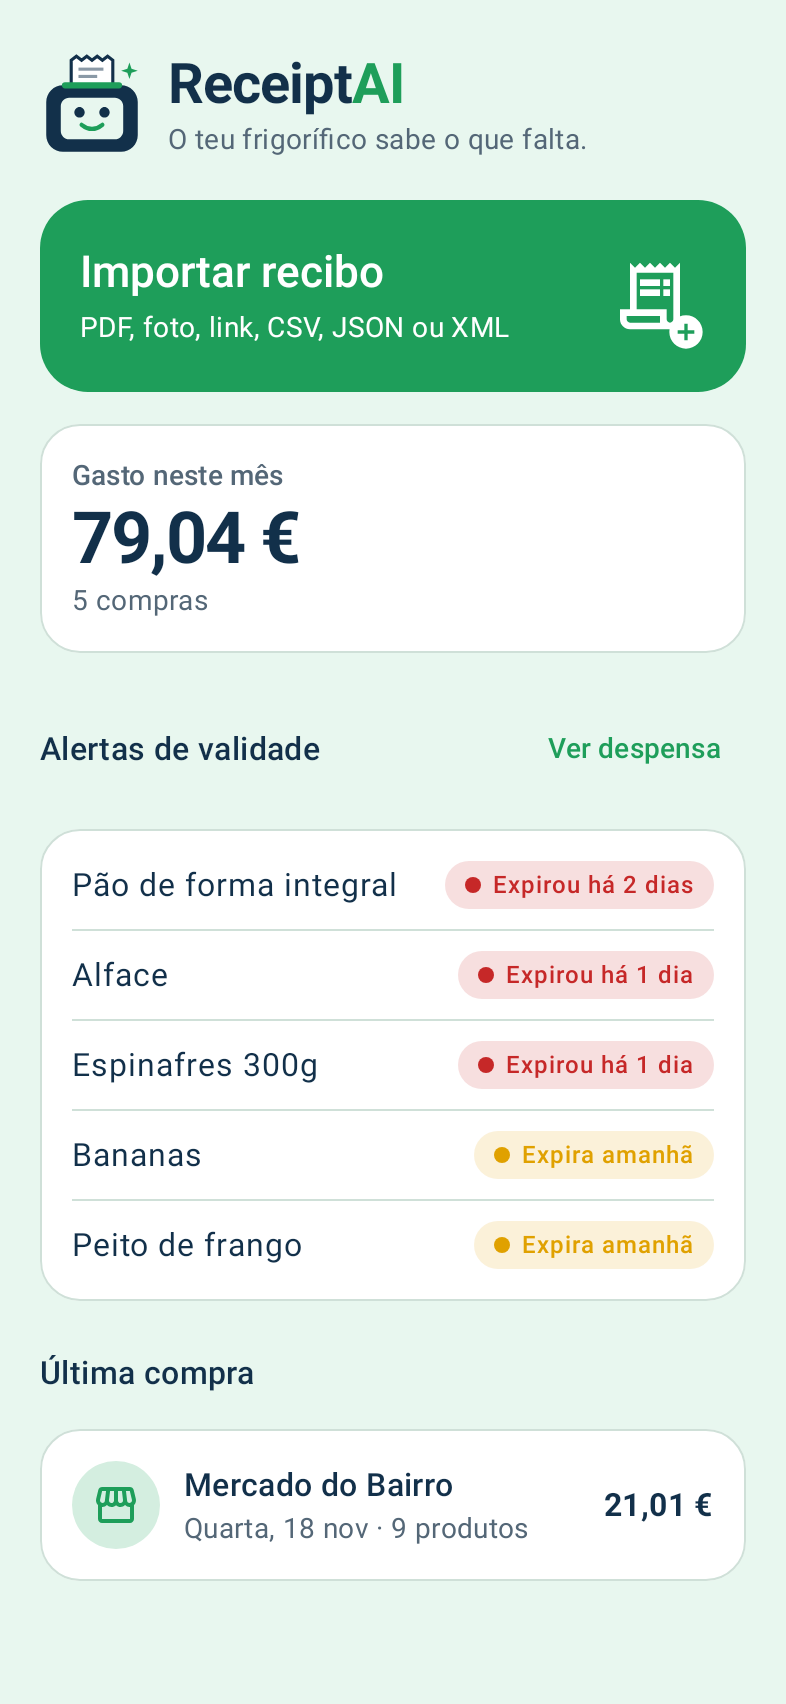
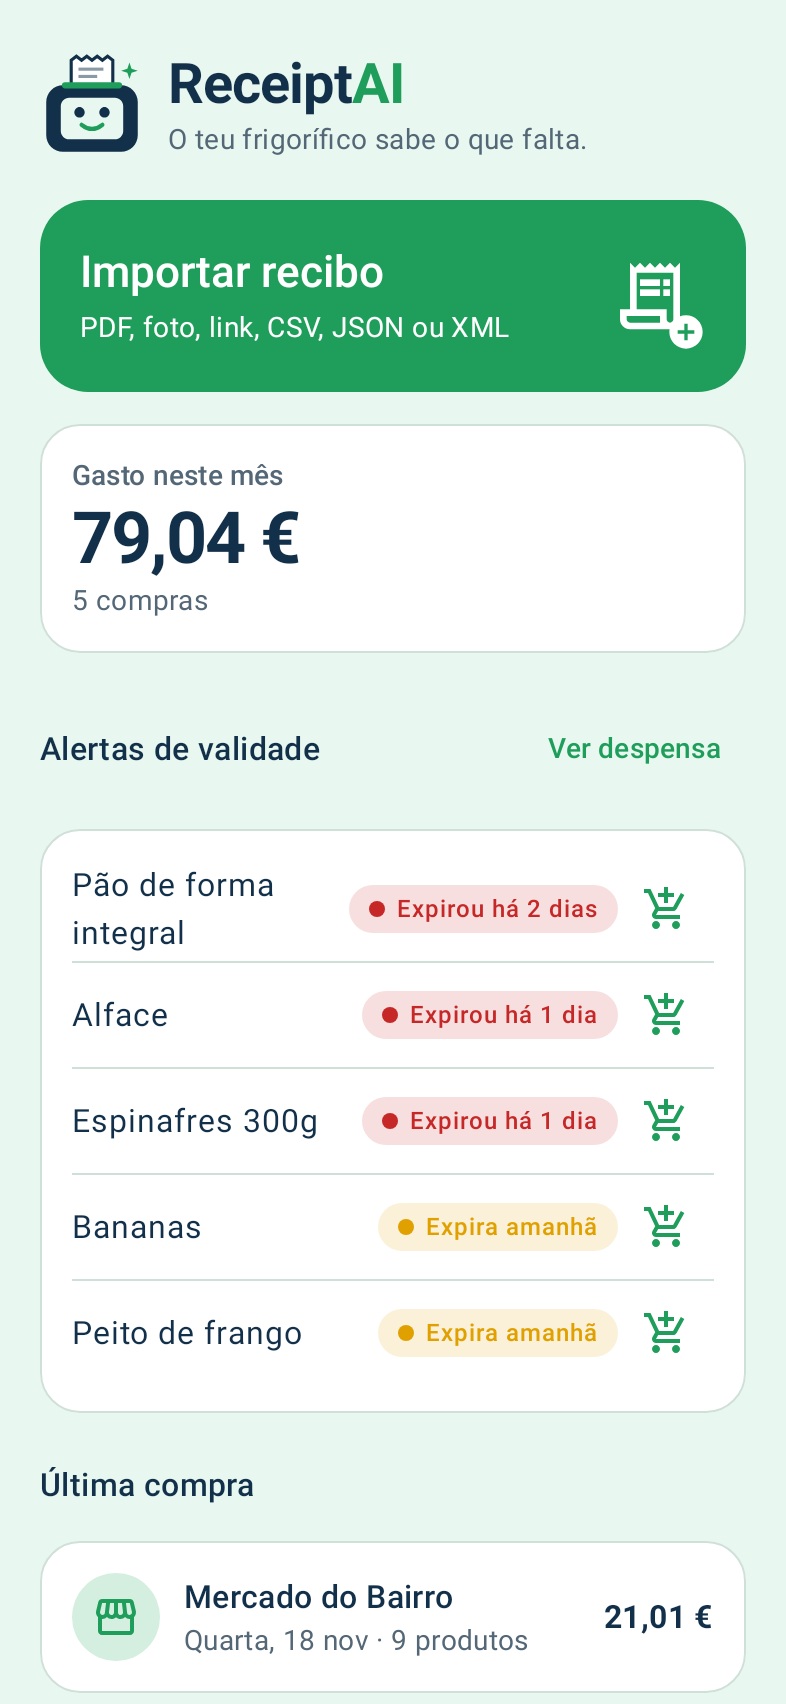
Fase 2: botão 🛒 nos alertas de validade para juntar à lista de compras
- Cada alerta do Início tem um botão de carrinho verde. Ao tocar, o
  produto vai para a lista de compras e aparece a mensagem
  "Bananas adicionado à lista de compras" com o botão Anular.
- Se o produto já está por comprar na lista, o carrinho dá lugar a um ✓
  (com uma pequena animação de 180 ms).
- ShoppingRepository.add devolve o id novo e há deleteById, para o Anular.
- Testes: alerta "já na lista", clique no carrinho, add/anular na base
  de dados.

Claude-Session: https://claude.ai/code/session_01KmboxN7cdsv9iKJs4QvBV3

diff --git a/app/src/main/java/pt/receiptai/ui/home/HomeScreen.kt b/app/src/main/java/pt/receiptai/ui/home/HomeScreen.kt
@@ -1,5 +1,11 @@
 package pt.receiptai.ui.home
 
+import androidx.compose.animation.AnimatedContent
+import androidx.compose.animation.core.tween
+import androidx.compose.animation.fadeIn
+import androidx.compose.animation.fadeOut
+import androidx.compose.animation.scaleIn
+import androidx.compose.animation.togetherWith
 import androidx.compose.foundation.background
 import androidx.compose.foundation.layout.Arrangement
 import androidx.compose.foundation.layout.Box
@@ -16,7 +22,9 @@ import androidx.compose.foundation.shape.CircleShape
 import androidx.compose.foundation.shape.RoundedCornerShape
 import androidx.compose.material.icons.Icons
 import androidx.compose.material.icons.automirrored.outlined.ReceiptLong
+import androidx.compose.material.icons.filled.CheckCircle
 import androidx.compose.material.icons.outlined.AddCircle
+import androidx.compose.material.icons.outlined.AddShoppingCart
 import androidx.compose.material.icons.outlined.AutoAwesome
 import androidx.compose.material.icons.outlined.CheckCircle
 import androidx.compose.material.icons.outlined.Storefront
@@ -24,12 +32,17 @@ import androidx.compose.material3.Card
 import androidx.compose.material3.CardDefaults
 import androidx.compose.material3.HorizontalDivider
 import androidx.compose.material3.Icon
+import androidx.compose.material3.IconButton
 import androidx.compose.material3.MaterialTheme
 import androidx.compose.material3.OutlinedButton
+import androidx.compose.material3.SnackbarDuration
+import androidx.compose.material3.SnackbarHostState
+import androidx.compose.material3.SnackbarResult
 import androidx.compose.material3.Text
 import androidx.compose.material3.TextButton
 import androidx.compose.runtime.Composable
 import androidx.compose.runtime.getValue
+import androidx.compose.runtime.rememberCoroutineScope
 import androidx.compose.ui.Alignment
 import androidx.compose.ui.Modifier
 import androidx.compose.ui.res.pluralStringResource
@@ -37,6 +50,7 @@ import androidx.compose.ui.res.stringResource
 import androidx.compose.ui.text.font.FontWeight
 import androidx.compose.ui.unit.dp
 import androidx.lifecycle.compose.collectAsStateWithLifecycle
+import kotlinx.coroutines.launch
 import pt.receiptai.R
 import pt.receiptai.domain.Money
 import pt.receiptai.ui.components.AppCard
@@ -46,12 +60,33 @@ import pt.receiptai.ui.components.ExpiryBadge
 import pt.receiptai.ui.components.ScreenPadding
 import pt.receiptai.ui.components.SectionTitle
 import pt.receiptai.ui.components.appViewModel
+import pt.receiptai.ui.theme.EaseOutStrong
 
+/** @param snackbar onde aparece a mensagem "… adicionado à lista de compras  ANULAR". */
 @Composable
-fun HomeRoute(onImport: () -> Unit, onOpenRecords: () -> Unit, onOpenPantry: () -> Unit, onOpenStats: () -> Unit) {
+fun HomeRoute(
+    onImport: () -> Unit,
+    onOpenRecords: () -> Unit,
+    onOpenPantry: () -> Unit,
+    onOpenStats: () -> Unit,
+    snackbar: SnackbarHostState,
+) {
     val vm = appViewModel { HomeViewModel(it) }
     val state by vm.state.collectAsStateWithLifecycle()
-    HomeScreen(state, onImport, vm::loadDemoData, onOpenRecords, onOpenPantry, onOpenStats)
+    val scope = rememberCoroutineScope()
+    val addedMessage = stringResource(R.string.home_added_to_list) // "%1$s adicionado à lista de compras"
+    val undo = stringResource(R.string.undo)
+    HomeScreen(
+        state, onImport, vm::loadDemoData, onOpenRecords, onOpenPantry, onOpenStats,
+        onAddToShopping = { alert ->
+            scope.launch {
+                val id = vm.addToShopping(alert) ?: return@launch
+                snackbar.currentSnackbarData?.dismiss() // uma mensagem de cada vez
+                val result = snackbar.showSnackbar(addedMessage.format(alert.name), actionLabel = undo, duration = SnackbarDuration.Short)
+                if (result == SnackbarResult.ActionPerformed) vm.removeFromShopping(id)
+            }
+        },
+    )
 }
 
 @Composable
@@ -62,6 +97,7 @@ fun HomeScreen(
     onOpenRecords: () -> Unit,
     onOpenPantry: () -> Unit,
     onOpenStats: () -> Unit,
+    onAddToShopping: (AlertItem) -> Unit = {},
 ) {
     LazyColumn(
         Modifier.fillMaxSize(),
@@ -119,10 +155,11 @@ fun HomeScreen(
             item {
                 AppCard(onClick = onOpenPantry) {
                     state.alerts.forEachIndexed { i, alert ->
-                        if (i > 0) HorizontalDivider(Modifier.padding(vertical = 10.dp), color = MaterialTheme.colorScheme.outlineVariant)
+                        if (i > 0) HorizontalDivider(Modifier.padding(vertical = 2.dp), color = MaterialTheme.colorScheme.outlineVariant)
                         Row(verticalAlignment = Alignment.CenterVertically) {
                             Text(alert.name, style = MaterialTheme.typography.bodyLarge, modifier = Modifier.weight(1f))
                             ExpiryBadge(alert.daysLeft)
+                            AddToListButton(alert, onAdd = { onAddToShopping(alert) })
                         }
                     }
                 }
@@ -150,6 +187,32 @@ fun HomeScreen(
                         Text(Money.format(last.totalCents), style = MaterialTheme.typography.titleMedium, fontWeight = FontWeight.Bold)
                     }
                 }
+            }
+        }
+    }
+}
+
+/**
+ * Botão 🛒 de um alerta. Depois de tocar, troca para ✓ ("já está na lista") com um
+ * pequeno "pop" (cresce e aparece em 180 ms). Se carregares em "Anular", volta a ser 🛒.
+ */
+@Composable
+private fun AddToListButton(alert: AlertItem, onAdd: () -> Unit) {
+    AnimatedContent(
+        targetState = alert.onList,
+        transitionSpec = {
+            (fadeIn(tween(180)) + scaleIn(tween(180, easing = EaseOutStrong), initialScale = 0.6f)) togetherWith fadeOut(tween(90))
+        },
+        label = "carrinho",
+    ) { onList ->
+        if (onList) {
+            // Mesmo tamanho do botão (48 dp), para a linha não "saltar".
+            Box(Modifier.size(48.dp), contentAlignment = Alignment.Center) {
+                Icon(Icons.Filled.CheckCircle, stringResource(R.string.home_on_list, alert.name), tint = MaterialTheme.colorScheme.primary)
+            }
+        } else {
+            IconButton(onClick = onAdd) {
+                Icon(Icons.Outlined.AddShoppingCart, stringResource(R.string.home_add_to_list, alert.name), tint = MaterialTheme.colorScheme.primary)
             }
         }
     }

diff --git a/app/src/main/java/pt/receiptai/ui/home/HomeViewModel.kt b/app/src/main/java/pt/receiptai/ui/home/HomeViewModel.kt
@@ -10,12 +10,14 @@ import kotlinx.coroutines.launch
 import pt.receiptai.AppContainer
 import pt.receiptai.data.db.PantryItemEntity
 import pt.receiptai.data.db.ReceiptWithItems
+import pt.receiptai.data.db.ShoppingItemEntity
 import pt.receiptai.domain.StatsCalculator
 import pt.receiptai.domain.StatsPeriod
 import java.time.LocalDate
 import java.time.temporal.ChronoUnit
 
-data class AlertItem(val id: Long, val name: String, val daysLeft: Long)
+/** Um alerta de validade. [onList] = já está (por comprar) na lista de compras. */
+data class AlertItem(val id: Long, val name: String, val daysLeft: Long, val onList: Boolean = false)
 
 data class LastPurchase(val store: String, val date: LocalDate, val totalCents: Long, val itemCount: Int)
 
@@ -35,11 +37,20 @@ class HomeViewModel(private val container: AppContainer) : ViewModel() {
         container.receipts.receiptTotals,
         container.receipts.latest,
         container.pantry.active,
-    ) { count, totals, latest, pantry -> buildState(count, totals, latest, pantry, container.today()) }
+        container.shopping.items,
+    ) { count, totals, latest, pantry, shopping -> buildState(count, totals, latest, pantry, shopping, container.today()) }
         .stateIn(viewModelScope, SharingStarted.WhileSubscribed(5_000), HomeUiState())
 
     fun loadDemoData() {
         viewModelScope.launch { container.receipts.loadDemoData() }
+    }
+
+    /** Botão 🛒 de um alerta: junta o produto à lista de compras. Devolve o id (para o "Anular"). */
+    suspend fun addToShopping(alert: AlertItem): Long? = container.shopping.add(alert.name)
+
+    /** "Anular" na mensagem: tira da lista o produto que acabou de ser adicionado. */
+    fun removeFromShopping(id: Long) {
+        viewModelScope.launch { container.shopping.deleteById(id) }
     }
 
     companion object {
@@ -49,8 +60,11 @@ class HomeViewModel(private val container: AppContainer) : ViewModel() {
             totals: List<Pair<LocalDate, Long>>,
             latest: ReceiptWithItems?,
             pantry: List<PantryItemEntity>,
+            shopping: List<ShoppingItemEntity>,
             today: LocalDate,
         ): HomeUiState {
+            // Produtos que ainda estão por comprar na lista (os já riscados não contam).
+            val onList = shopping.filter { !it.checked }.map { it.normalizedName }.toSet()
             val month = StatsCalculator.range(StatsPeriod.MES, today)
             val inMonth = totals.filter { it.first in month }
             return HomeUiState(
@@ -59,7 +73,7 @@ class HomeViewModel(private val container: AppContainer) : ViewModel() {
                 monthTotalCents = inMonth.sumOf { it.second },
                 monthReceipts = inMonth.size,
                 lastPurchase = latest?.let { LastPurchase(it.receipt.storeName, it.receipt.purchasedOn, it.receipt.totalCents, it.items.size) },
-                alerts = pantry.map { AlertItem(it.id, it.name, ChronoUnit.DAYS.between(today, it.expiresOn)) }
+                alerts = pantry.map { AlertItem(it.id, it.name, ChronoUnit.DAYS.between(today, it.expiresOn), it.normalizedName in onList) }
                     .filter { it.daysLeft <= 2 }
                     .take(5),
             )

diff --git a/app/src/test/java/pt/receiptai/ui/home/HomeAlertsTest.kt b/app/src/test/java/pt/receiptai/ui/home/HomeAlertsTest.kt
@@ -1,0 +1,64 @@
+package pt.receiptai.ui.home
+
+import android.app.Application
+import androidx.compose.ui.test.assertIsDisplayed
+import androidx.compose.ui.test.junit4.createComposeRule
+import androidx.compose.ui.test.onNodeWithContentDescription
+import androidx.compose.ui.test.performClick
+import androidx.test.ext.junit.runners.AndroidJUnit4
+import org.junit.Assert.assertEquals
+import org.junit.Rule
+import org.junit.Test
+import org.junit.runner.RunWith
+import org.robolectric.annotation.Config
+import pt.receiptai.data.db.PantryItemEntity
+import pt.receiptai.data.db.ShoppingItemEntity
+import pt.receiptai.domain.Normalizer
+import pt.receiptai.ui.theme.ReceiptAiTheme
+import java.time.LocalDate
+
+@RunWith(AndroidJUnit4::class)
+@Config(application = Application::class, sdk = [35], qualifiers = "w393dp-h852dp-xhdpi")
+class HomeAlertsTest {
+    @get:Rule val compose = createComposeRule()
+
+    private val today = LocalDate.of(2026, 11, 26)
+
+    private fun pantry(id: Long, name: String, expires: LocalDate) =
+        PantryItemEntity(id, name, Normalizer.normalize(name), addedOn = today.minusDays(10), expiresOn = expires)
+
+    private fun shopping(name: String, checked: Boolean = false) =
+        ShoppingItemEntity(name = name, normalizedName = Normalizer.normalize(name), checked = checked)
+
+    @Test
+    fun `alerta sabe se o produto ja esta por comprar na lista`() {
+        val state = HomeViewModel.buildState(
+            count = 1,
+            totals = emptyList(),
+            latest = null,
+            pantry = listOf(
+                pantry(1, "Bananas", today.minusDays(5)),
+                pantry(2, "Leite meio gordo 1L", today.minusDays(7)),
+                pantry(3, "Pão de mistura", today.plusDays(1)),
+            ),
+            // Maiúsculas/acentos não contam; um produto já riscado não conta como "na lista".
+            shopping = listOf(shopping("BANANAS"), shopping("Pão de mistura", checked = true)),
+            today = today,
+        )
+        assertEquals(listOf(true, false, false), state.alerts.map { it.onList })
+    }
+
+    @Test
+    fun `carrinho chama o callback e o produto na lista mostra o visto`() {
+        var added: AlertItem? = null
+        val alerts = listOf(AlertItem(1, "Bananas", -5), AlertItem(2, "Leite", -7, onList = true))
+        compose.setContent {
+            ReceiptAiTheme {
+                HomeScreen(HomeUiState(loading = false, alerts = alerts), {}, {}, {}, {}, {}, onAddToShopping = { added = it })
+            }
+        }
+        compose.onNodeWithContentDescription("Leite já está na lista de compras").assertIsDisplayed()
+        compose.onNodeWithContentDescription("Adicionar Bananas à lista de compras").performClick()
+        assertEquals("Bananas", added?.name)
+    }
+}

diff --git a/app/src/test/java/pt/receiptai/ui/ScreenshotTest.kt b/app/src/test/java/pt/receiptai/ui/ScreenshotTest.kt
@@ -66,7 +66,7 @@ class ScreenshotTest {
     private lateinit var db: ReceiptAiDatabase
 
     @Before
-    fun setUp() = runBlocking {
+    fun setUp(): Unit = runBlocking {
         db = Room.inMemoryDatabaseBuilder(ApplicationProvider.getApplicationContext(), ReceiptAiDatabase::class.java)
             .allowMainThreadQueries().build()
         ReceiptRepository(db) { today }.loadDemoData()
@@ -93,6 +93,7 @@ class ScreenshotTest {
             dao.observeReceipts().first().map { it.purchasedOn to it.totalCents },
             dao.observeLatest().first(),
             db.pantryDao().observeActive().first(),
+            db.shoppingDao().observeAll().first(),
             today,
         )
     }
@@ -123,7 +124,11 @@ class ScreenshotTest {
     }
 
     @Test fun inicio() = shot("1_inicio") { HomeScreen(homeState(), {}, {}, {}, {}, {}) }
-    @Test fun inicioEscuro() = shot("1_inicio_escuro", dark = true) { HomeScreen(homeState(), {}, {}, {}, {}, {}) }
+    /** No tema escuro, o 1.º alerta já está na lista de compras (mostra o ✓ em vez do 🛒). */
+    @Test fun inicioEscuro() = shot("1_inicio_escuro", dark = true) {
+        val state = homeState()
+        HomeScreen(state.copy(alerts = state.alerts.mapIndexed { i, a -> a.copy(onList = i == 0) }), {}, {}, {}, {}, {})
+    }
     @Test fun inicioVazio() = shot("1_inicio_vazio") { HomeScreen(HomeUiState(loading = false, isEmpty = true), {}, {}, {}, {}, {}) }
     @Test fun estatisticasMes() = shot("2_estatisticas_mes") { StatsScreen(statsState(StatsPeriod.MES), {}, {}, {}) }
     @Test fun estatisticasAno() = shot("2_estatisticas_ano") { StatsScreen(statsState(StatsPeriod.ANO, ChartStyle.RETA), {}, {}, {}) }

diff --git a/app/src/main/java/pt/receiptai/data/repo/Repositories.kt b/app/src/main/java/pt/receiptai/data/repo/Repositories.kt
@@ -165,13 +165,15 @@ class ShoppingRepository(private val db: ReceiptAiDatabase) {
     private val dao = db.shoppingDao()
     val items = dao.observeAll()
 
-    suspend fun add(name: String, isAuto: Boolean = false) {
-        if (name.isBlank()) return
-        dao.insert(ShoppingItemEntity(name = name.trim(), normalizedName = Normalizer.normalize(name), isAuto = isAuto))
+    /** Junta um produto à lista. Devolve o id novo (serve para o "Anular"), ou null se o nome estiver vazio. */
+    suspend fun add(name: String, isAuto: Boolean = false): Long? {
+        if (name.isBlank()) return null
+        return dao.insert(ShoppingItemEntity(name = name.trim(), normalizedName = Normalizer.normalize(name), isAuto = isAuto))
     }
     suspend fun addAll(names: List<String>, isAuto: Boolean) =
         dao.insertAll(names.filter { it.isNotBlank() }.map { ShoppingItemEntity(name = it.trim(), normalizedName = Normalizer.normalize(it), isAuto = isAuto) })
     suspend fun toggle(item: ShoppingItemEntity) = dao.update(item.copy(checked = !item.checked))
     suspend fun delete(item: ShoppingItemEntity) = dao.delete(item)
+    suspend fun deleteById(id: Long) = dao.deleteById(id)
     suspend fun clearChecked() = dao.deleteChecked()
 }

diff --git a/app/src/test/java/pt/receiptai/data/RepositoryTest.kt b/app/src/test/java/pt/receiptai/data/RepositoryTest.kt
@@ -93,5 +93,12 @@ class RepositoryTest {
         shopping.toggle(shopping.items.first().first { it.name == "Leite" })
         shopping.clearChecked()
         assertEquals(listOf("Pão"), shopping.items.first().map { it.name })
+
+        // "Anular": o id devolvido pelo add serve para tirar logo o produto da lista.
+        val id = shopping.add("Bananas")!!
+        assertEquals(listOf("Bananas", "Pão"), shopping.items.first().map { it.name })
+        shopping.deleteById(id)
+        assertEquals(listOf("Pão"), shopping.items.first().map { it.name })
+        assertEquals(null, shopping.add("   "))
     }
 }

diff --git a/app/src/main/java/pt/receiptai/ui/ReceiptAiAppUi.kt b/app/src/main/java/pt/receiptai/ui/ReceiptAiAppUi.kt
@@ -218,6 +218,7 @@ fun ReceiptAiAppUi(shared: SharedContent?, onSharedConsumed: () -> Unit) {
                         onOpenRecords = { nav.navigateTab(Tab.REGISTOS) },
                         onOpenPantry = { pantryTab = 0; nav.navigateTab(Tab.DESPENSA) },
                         onOpenStats = { nav.navigateTab(Tab.ESTATISTICAS) },
+                        snackbar = snackbar,
                     )
                 }
                 composable(Tab.ESTATISTICAS.route) {

diff --git a/app/src/main/java/pt/receiptai/data/db/Daos.kt b/app/src/main/java/pt/receiptai/data/db/Daos.kt
@@ -112,4 +112,7 @@ interface ShoppingDao {
 
     @Query("DELETE FROM shopping_items WHERE checked = 1")
     suspend fun deleteChecked()
+
+    @Query("DELETE FROM shopping_items WHERE id = :id")
+    suspend fun deleteById(id: Long)
 }
